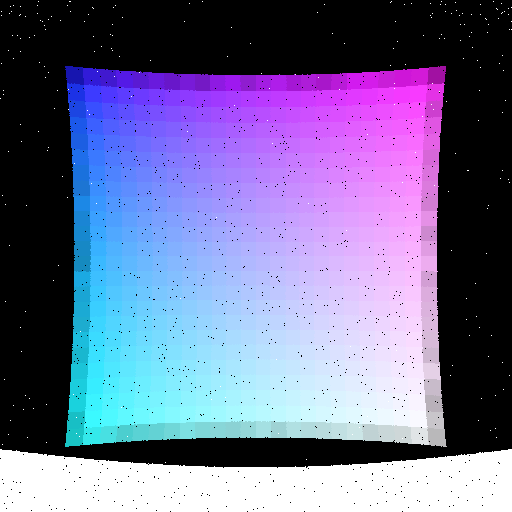
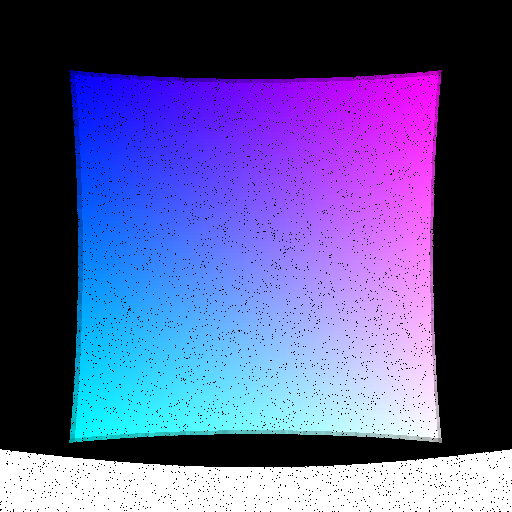
Minor update

diff --git a/src/shape/Plane.cpp b/src/shape/Plane.cpp
@@ -3,7 +3,7 @@
 namespace mypt {
 
 // ----------------------------------------------------------------------------------
-bool Plane::intersect(const Ray& r, double t_min, double t_max, HitRecord& rec)  {
+bool Plane::intersect(const Ray& r, double t_min, double t_max, HitRecord& rec) const {
     auto t = -r.origin().y / r.direction().y;
     if(t < t_min || t > t_max) 
         return false;
@@ -25,7 +25,7 @@ bool Plane::intersect(const Ray& r, double t_min, double t_max, HitRecord& rec) 
 }
 
 // ----------------------------------------------------------------------------------
-AABB Plane::bounding()  {
+AABB Plane::bounding() const {
     vec3 _min(min[0], -eps, min[1]);
     vec3 _max(max[0],  eps, max[1]);
 
@@ -33,7 +33,7 @@ AABB Plane::bounding()  {
 }
 
 // ----------------------------------------------------------------------------------
-double Plane::pdf_value(const vec3& origin, const vec3& v)  {
+double Plane::pdf_value(const vec3& origin, const vec3& v) const {
     HitRecord rec;
     if(!this->intersect(Ray(origin, v), eps, infinity, rec))
         return 0;
@@ -46,7 +46,7 @@ double Plane::pdf_value(const vec3& origin, const vec3& v)  {
 }
 
 // ----------------------------------------------------------------------------------
-vec3 Plane::random(const vec3& origin)  {
+vec3 Plane::random(const vec3& origin) const {
     auto random_point = vec3(random_double(min[0],max[0]), 0.0f, random_double(min[1], max[1]));
     return random_point - origin;
 }

diff --git a/src/core/vec3.h b/src/core/vec3.h
@@ -189,9 +189,12 @@ inline vec3 random_cosine_direction() {
 }
 
 inline RGB vec2color(const vec3& c, float scale) {
-    auto r = sqrt(scale * c.x);
-    auto g = sqrt(scale * c.y);
-    auto b = sqrt(scale * c.z);
+    // auto r = sqrt(scale * c.x);
+    // auto g = sqrt(scale * c.y);
+    // auto b = sqrt(scale * c.z);
+    auto r = scale * c.x;
+    auto g = scale * c.y;
+    auto b = scale * c.z;
     RGB rgb_color(static_cast<unsigned char>(256 * clamp(r, 0.0, 0.999)),
                     static_cast<unsigned char>(256 * clamp(g, 0.0, 0.999)),
                     static_cast<unsigned char>(256 * clamp(b, 0.0, 0.999)));

diff --git a/src/shape/Plane.h b/src/shape/Plane.h
@@ -9,11 +9,11 @@ public:
     Plane() {}
     Plane(vec2 min, vec2 max) : min(min), max(max) {}
 
-    bool intersect(const Ray& r, double t_min, double t_max, HitRecord& rec) override;
-    AABB bounding() override;
+    bool intersect(const Ray& r, double t_min, double t_max, HitRecord& rec) const override;
+    AABB bounding() const override;
 
-    double pdf_value(const vec3&, const vec3&) override;
-    vec3 random(const vec3&) override;
+    double pdf_value(const vec3&, const vec3&) const override;
+    vec3 random(const vec3&) const override;
 private:
     vec2 min, max;
 };
